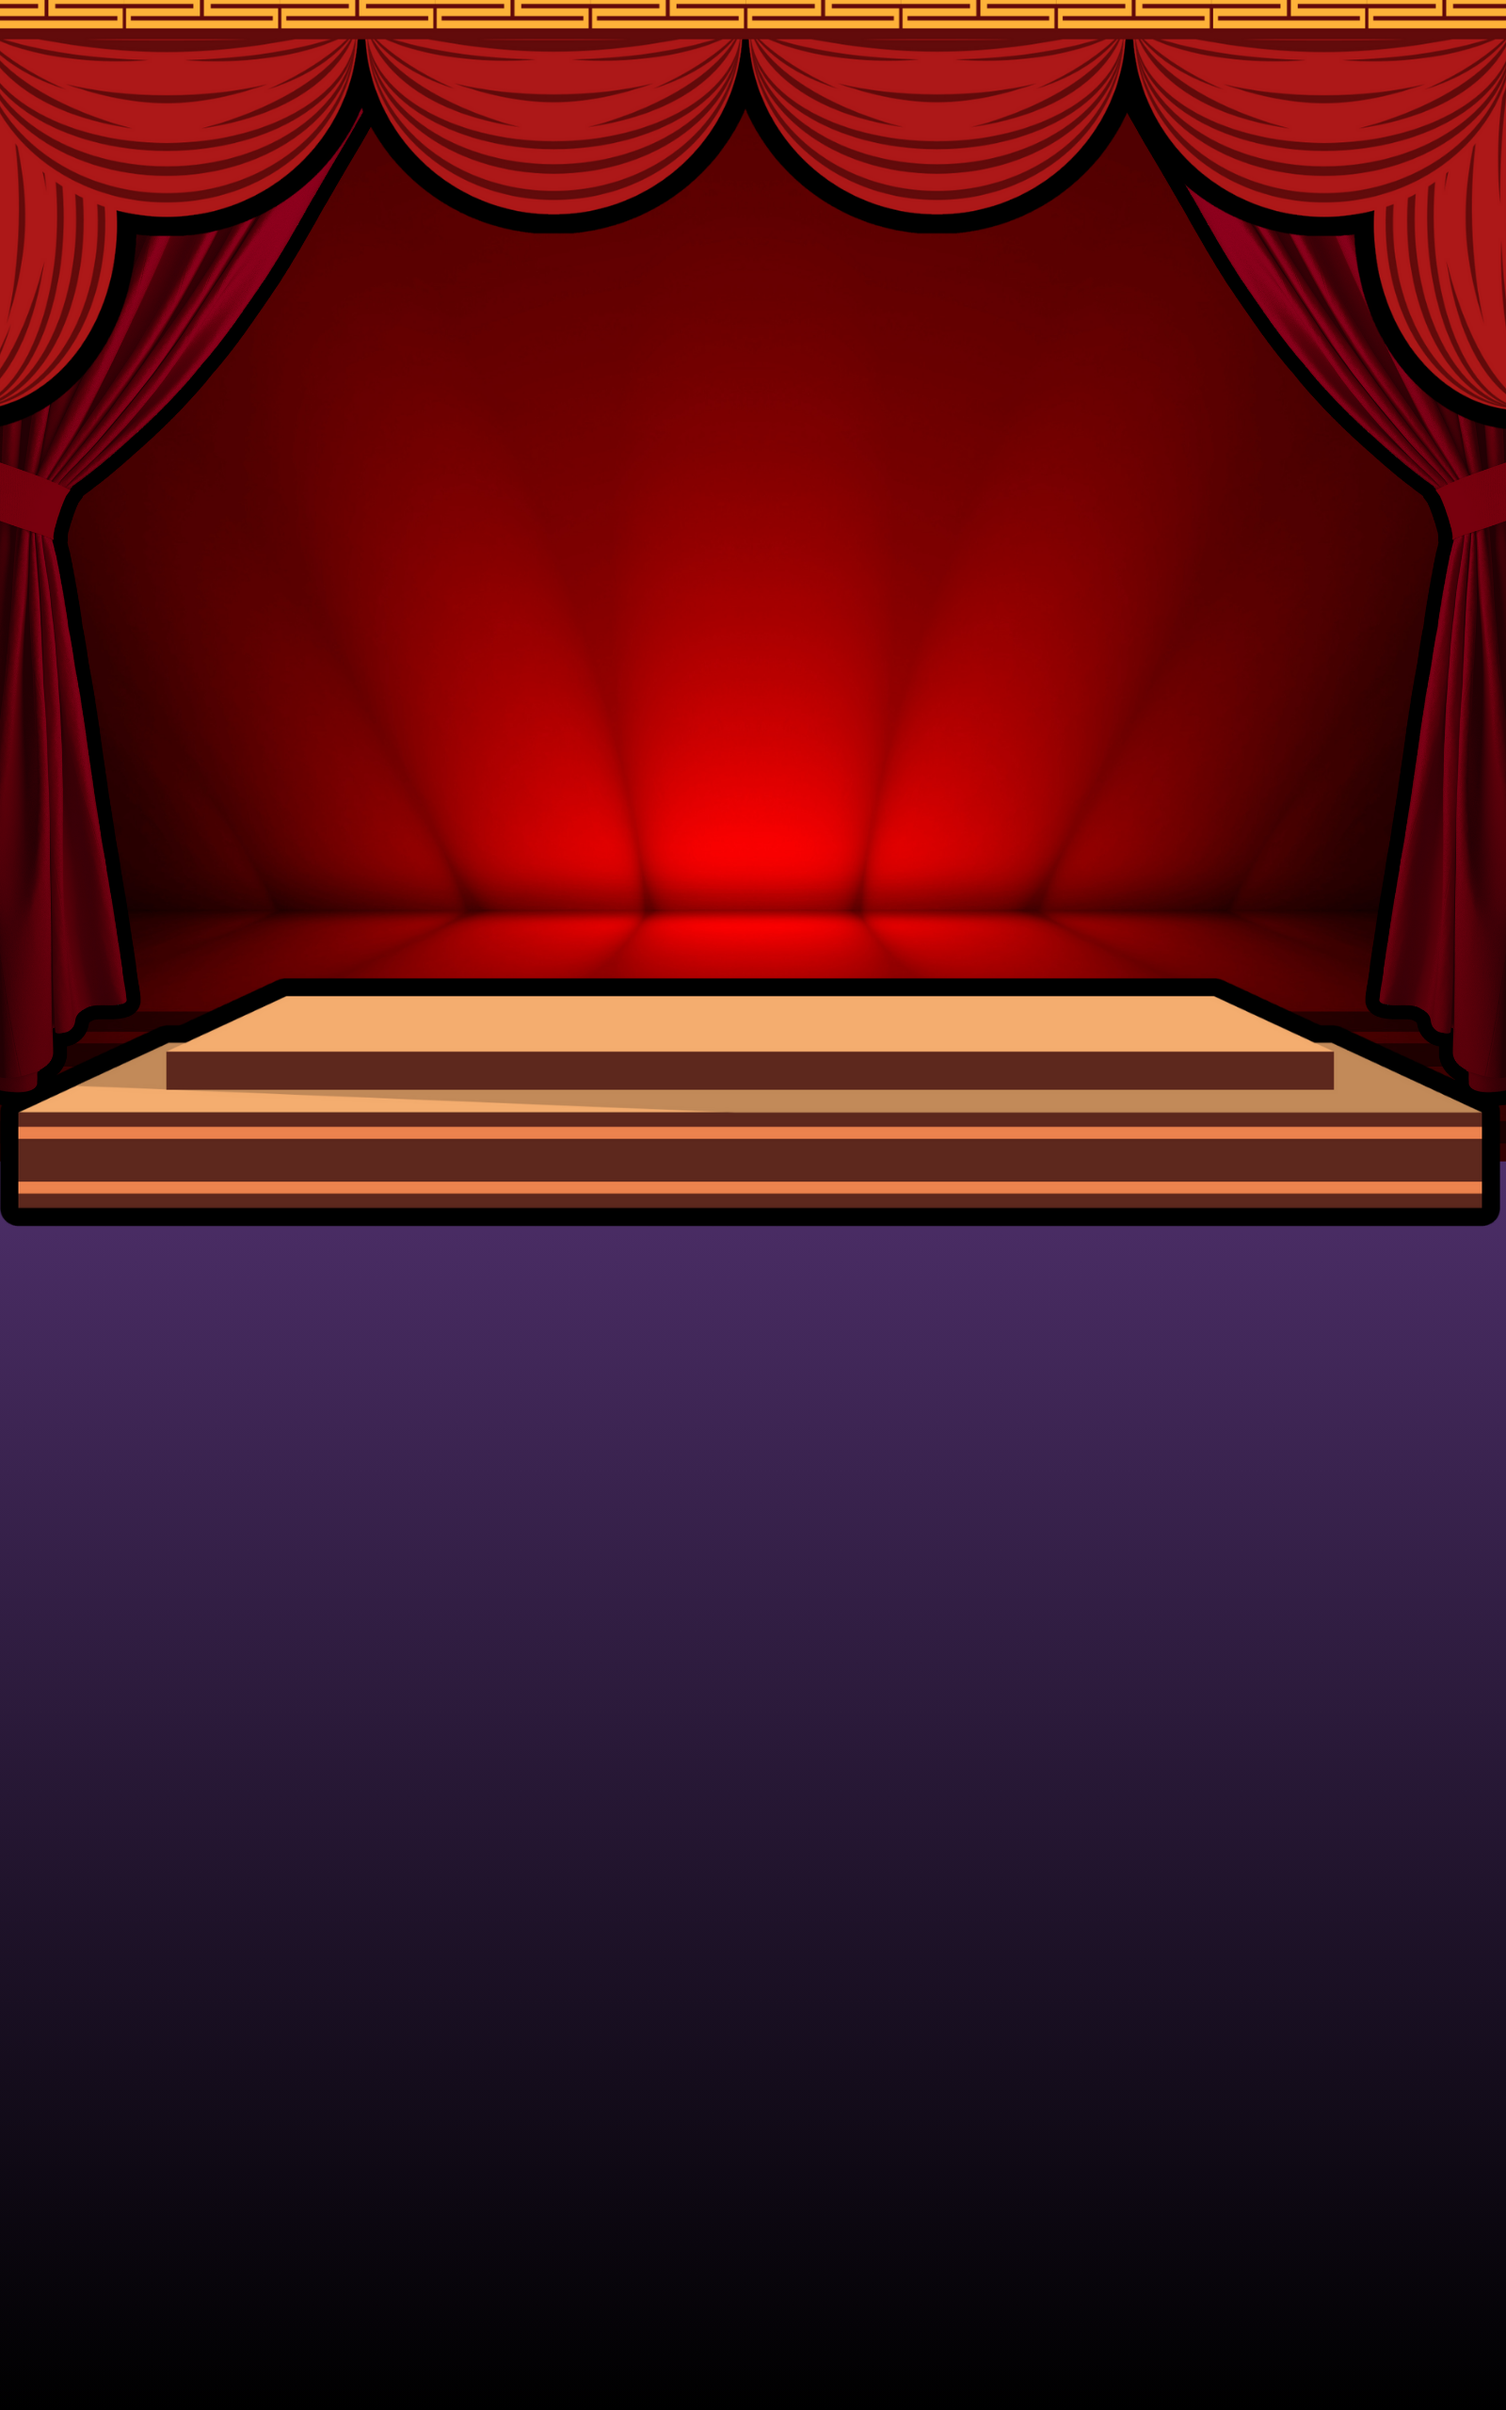
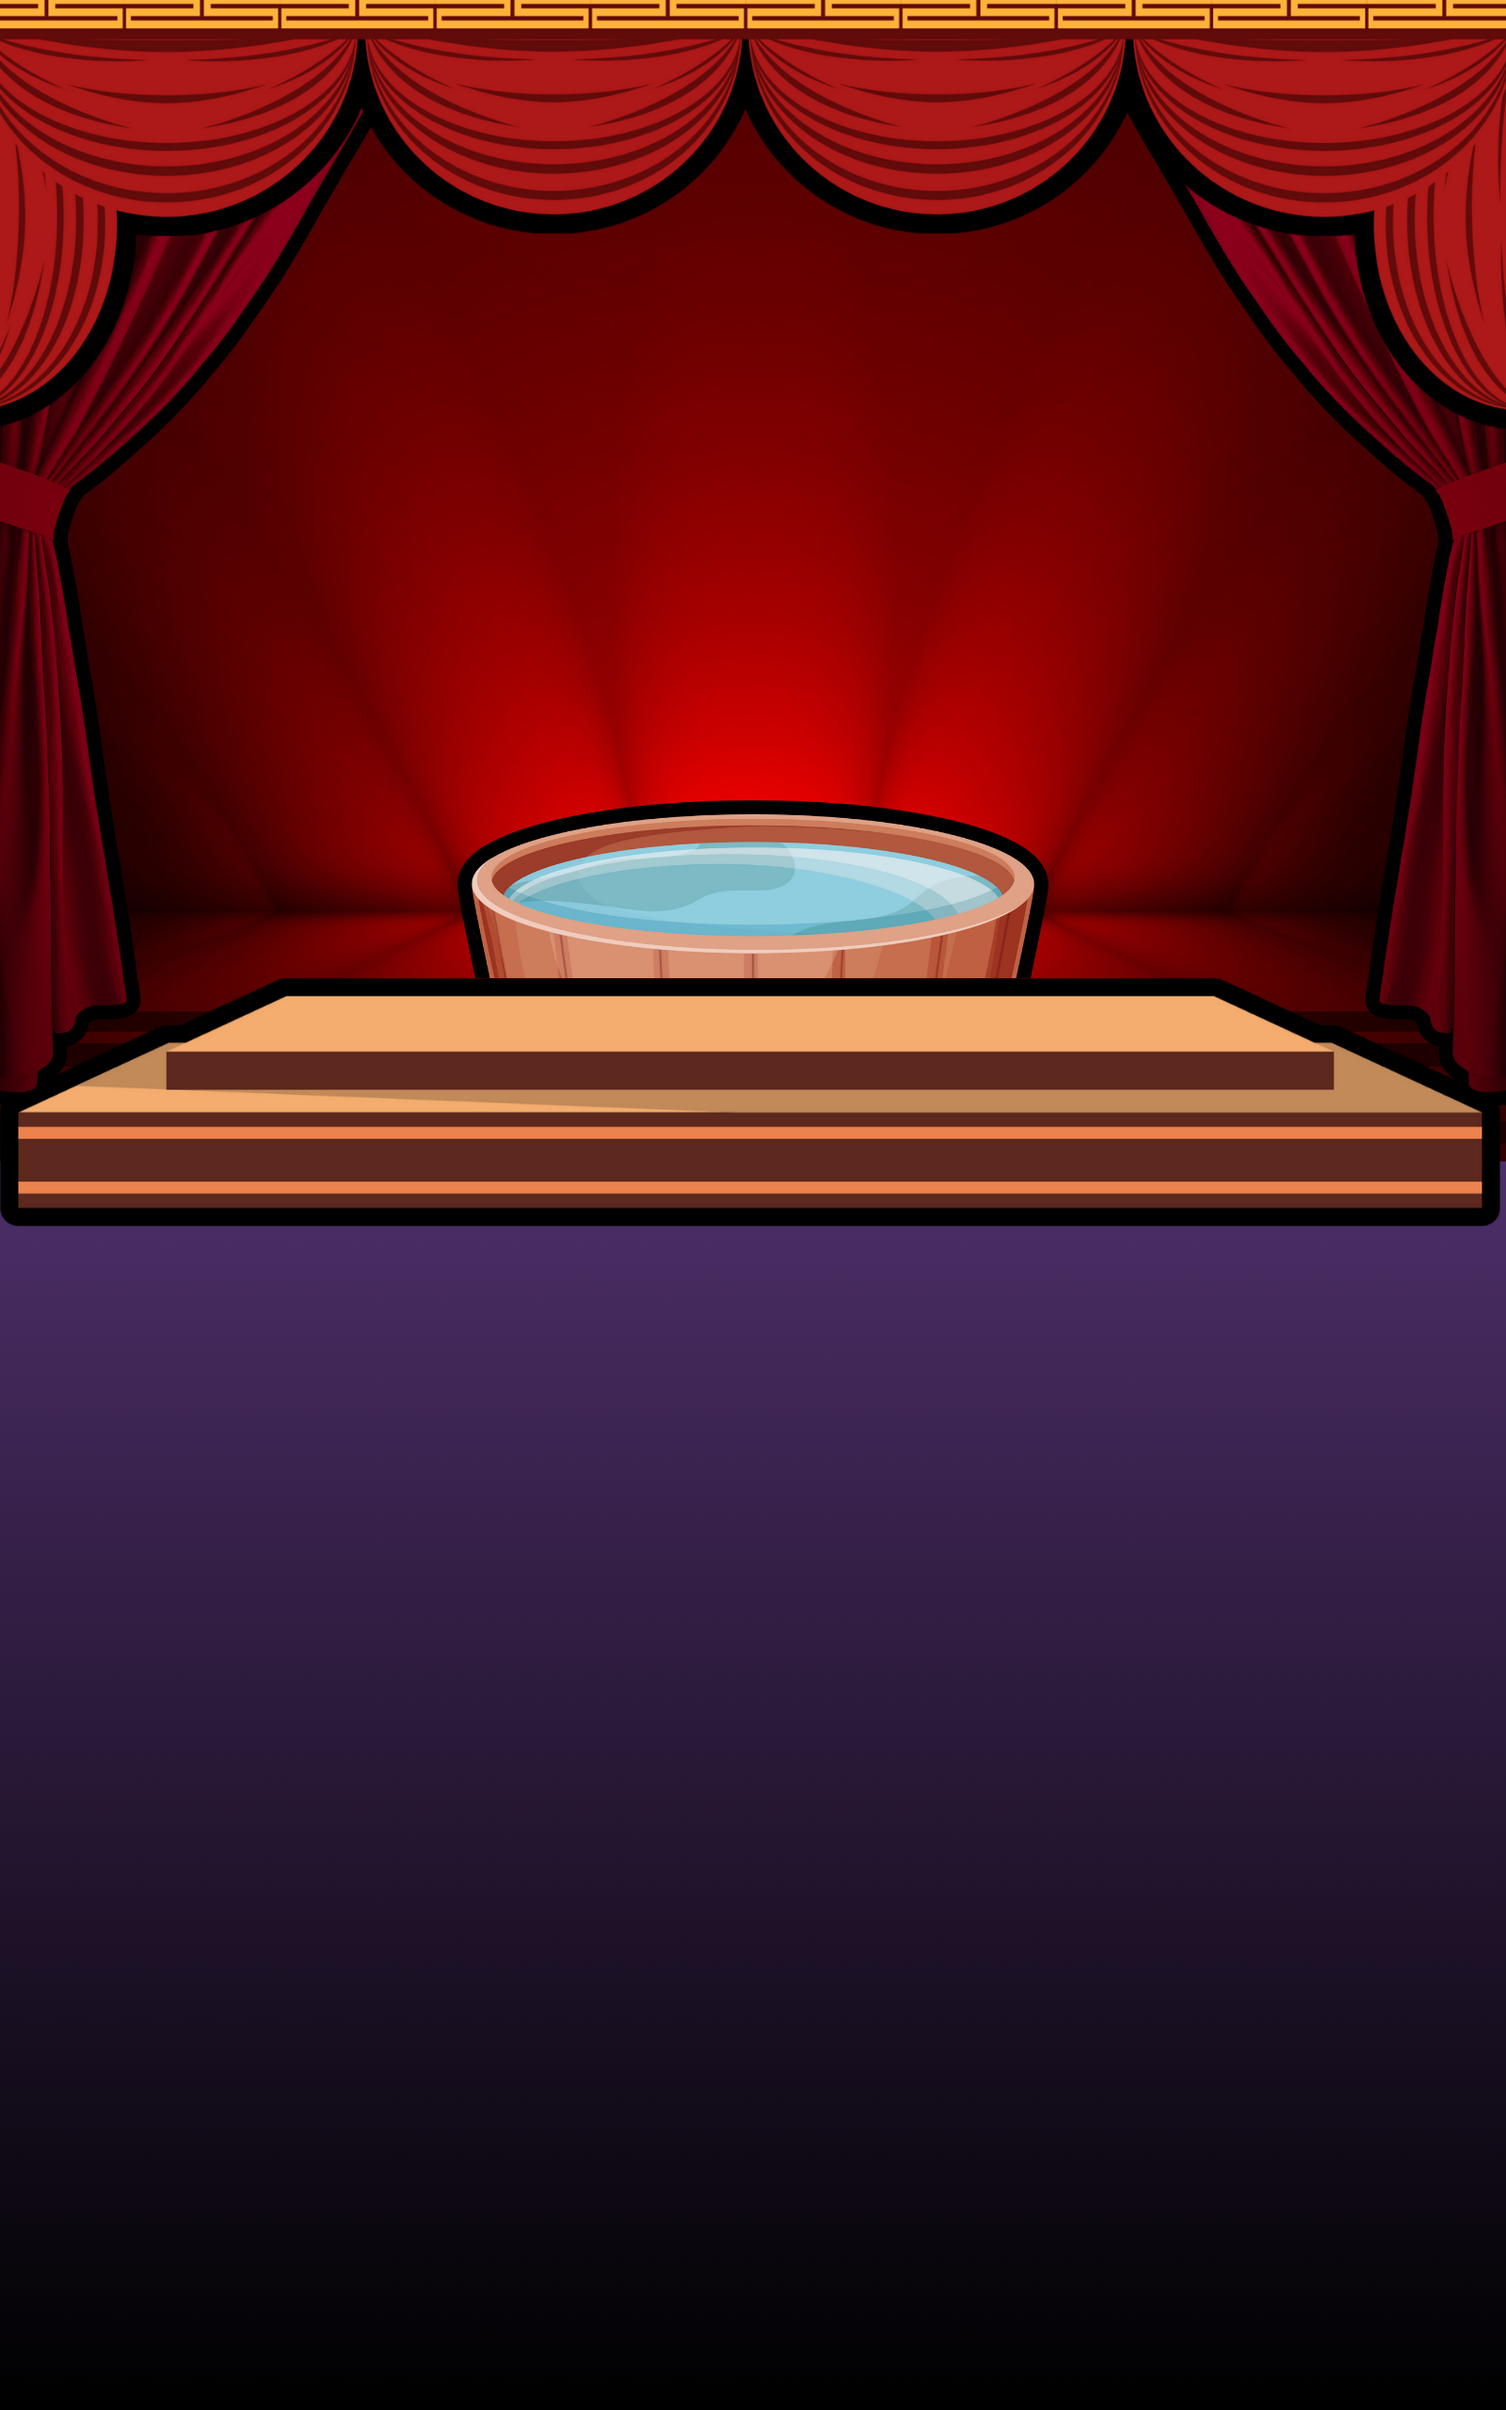
DONE

Changed region(s): [[0.2812, 0.3125, 0.7188, 0.4062]]

diff --git a/Game.xaml b/Game.xaml
@@ -9,20 +9,27 @@
            Source="game_background.png"
            Aspect="AspectFill" />
 
-        <Grid
+        <Grid>
+            <Image
+                Source="{Binding CurrentImage}"
+                IsAnimationPlaying="True"
+                Aspect="AspectFill"/>
+
+            <Grid
             RowDefinitions="Auto,.4*, Auto">
-            <VerticalStackLayout Spacing="10"
+                <VerticalStackLayout Spacing="10"
                                  HorizontalOptions="Center"
                                  VerticalOptions="Center">
-                
-                <Label FontAttributes="Bold"
+
+                    <Label FontAttributes="Bold"
                        HorizontalOptions="Center"
                        Text="{Binding GameStatus}"
                        FontFamily="DeadlyCute"
                        FontSize="16"
+                       TextColor="White"
                        />
 
-                <Label 
+                    <Label 
                      Text="{Binding Message}" 
                      FontSize="16" 
                      FontFamily="poppins"
@@ -30,55 +37,55 @@
                      HorizontalOptions="Center"/>
 
 
-                <Image HeightRequest="200"/>
+                    <Image HeightRequest="200"/>
 
-                <Label FontSize="35"
+                    <Label FontSize="35"
                        FontAttributes="Bold"
                        FontFamily="DeadlyCute"
                        HorizontalOptions="Center"
                        Text="{Binding Spotlight}"
                        VerticalOptions="Center"
                        TextColor="White">
-                    <Label.Shadow>
-                        <Shadow 
+                        <Label.Shadow>
+                            <Shadow 
                              Brush="Black"
                              Opacity="0.5" 
                              Radius="5" 
                              Offset="2,5" />
-                    </Label.Shadow>
-                </Label>
+                        </Label.Shadow>
+                    </Label>
 
-                <Border 
+                    <Border 
                     Stroke="Black"
                     StrokeThickness="2"
                     StrokeShape="RoundRectangle 10"
                     HorizontalOptions="Center"
                     VerticalOptions="Center"
-                    Background="#50FFFFFF"
-                    Padding="2"
+                    Background="#40FFFFFF"
+                    Padding="8"
                     Margin="10">
-                    
-                    <Label 
+
+                        <Label 
                      Text="{Binding Hint}" 
                      FontSize="16" 
                      TextColor="White"
-                     HorizontalOptions="Center" 
                      FontFamily="poppins"
-                     Margin="5" />
-                    
-                </Border>
+                     Margin="5" 
+                     HorizontalTextAlignment="Center"/>
+
+                    </Border>
 
 
-            </VerticalStackLayout>
-            <FlexLayout x:Name="LettersContainer"
+                </VerticalStackLayout>
+                <FlexLayout x:Name="LettersContainer"
                         Grid.Row="1"
                         Wrap="Wrap"
                         JustifyContent="SpaceEvenly"
                         BindableLayout.ItemsSource="{Binding Letters}"
                         Margin="10,10,10,0">
-                <BindableLayout.ItemTemplate>
-                    <DataTemplate>
-                        <Button HeightRequest="25"
+                    <BindableLayout.ItemTemplate>
+                        <DataTemplate>
+                            <Button HeightRequest="25"
                                 WidthRequest="50"
                                 FontFamily="poppins"
                                 Text="{Binding .}"
@@ -88,11 +95,11 @@
                                 FontSize="23"
                                 BackgroundColor="White"
                                 Clicked="letter_Clicked"/>
-                    </DataTemplate>
-                </BindableLayout.ItemTemplate>
-            </FlexLayout>
+                        </DataTemplate>
+                    </BindableLayout.ItemTemplate>
+                </FlexLayout>
 
-            <Button     HorizontalOptions="Center"
+                <Button     HorizontalOptions="Center"
                         x:Name="Reset"
                         Clicked="Reset_Clicked"
                         Text="Reset"
@@ -105,6 +112,8 @@
                         Grid.Row="2"
                         Margin="0,0,0,20"/>
 
+
+            </Grid>
 
         </Grid>
         

diff --git a/Game.xaml.cs b/Game.xaml.cs
@@ -96,7 +96,7 @@ public partial class Game : ContentPage, INotifyPropertyChanged
 	private int mistakes = 0;
 	private int maxWrong = 6;
 	private string gameStatus;
-	private string currentImage = "img0.jpg";
+	private string currentImage = "img0.png";
 	private string hint;
 
 	public Game()
@@ -168,7 +168,7 @@ public partial class Game : ContentPage, INotifyPropertyChanged
 	{
 		mistakes = 0;
 		guessed.Clear();
-		CurrentImage = "img0.jpg";
+		CurrentImage = "img0.png";
 		PickWord();
 		CalculateWord(answer, guessed);
 		Message = "";
@@ -197,13 +197,18 @@ public partial class Game : ContentPage, INotifyPropertyChanged
 		{
 			CalculateWord(answer, guessed);
 			CheckIfGameWon();
+			
 		}
 		else
 		{
 			mistakes++;
 			UpdateStatus();
 			CheckIfGameLost();
-			CurrentImage = $"img{mistakes}.jpg";
+			CurrentImage = $"img{mistakes}.png";
+			if(mistakes == 6)
+			{
+				CurrentImage = $"img6.gif";
+			}
 		}
 	}
 
@@ -212,6 +217,7 @@ public partial class Game : ContentPage, INotifyPropertyChanged
 		if (Spotlight.Replace(" ", "") == answer)
 		{
 			Message = "You win!";
+			CurrentImage = "win.png";
 			DisableLetters();
 		}
 	}
